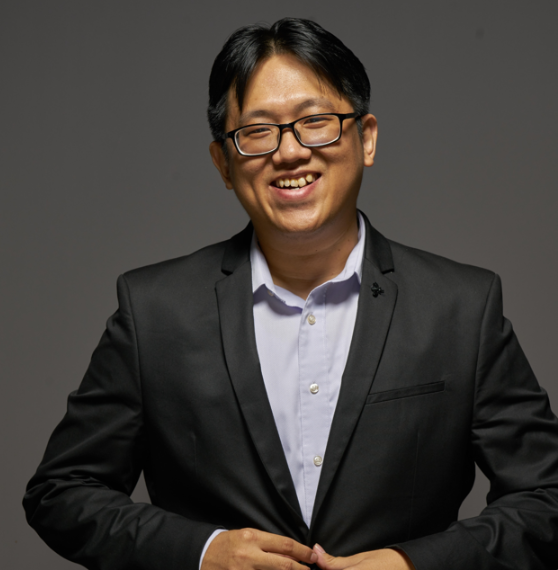
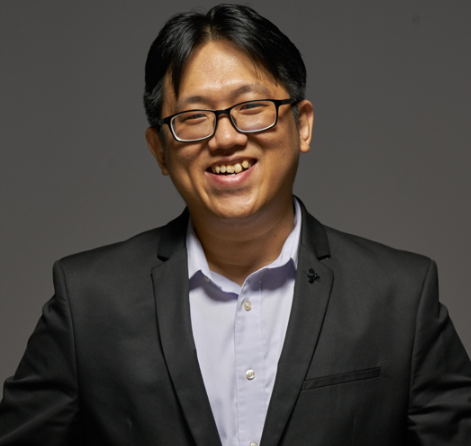
Refactor code structure for improved readability and maintainability

diff --git a/resources/views/memorial/show.blade.php b/resources/views/memorial/show.blade.php
@@ -750,12 +750,11 @@
         <div class="section-block reveal" data-delay="160">
             <p class="s-label">Ibadah Penghiburan</p>
             <p class="s-value">Senin, 25 Mei 2026 Pk. 19:00 WIB</p>
+            <p class="s-value">Selasa, 26 Mei 2026 Pk. 19:00 WIB</p>
+
         </div>
 
-        <div class="section-block reveal" data-delay="240">
-            <p class="s-label">Ibadah Penghiburan</p>
-            <p class="s-value">Selasa, 26 Mei 2026 Pk. 19:00 WIB</p>
-        </div>
+     
 
         <div class="section-block reveal" data-delay="320">
             <p class="s-label">Ibadah Pemberangkatan</p>

diff --git a/resources/views/memorial/copilot.blade.php b/resources/views/memorial/copilot.blade.php
@@ -751,7 +751,6 @@
         </div>
 
         <div class="section-block reveal" data-delay="240">
-            <p class="s-label">Ibadah Penghiburan</p>
             <p class="s-value">Selasa, 26 Mei 2026 Pk. 19:00 WIB</p>
         </div>
 
